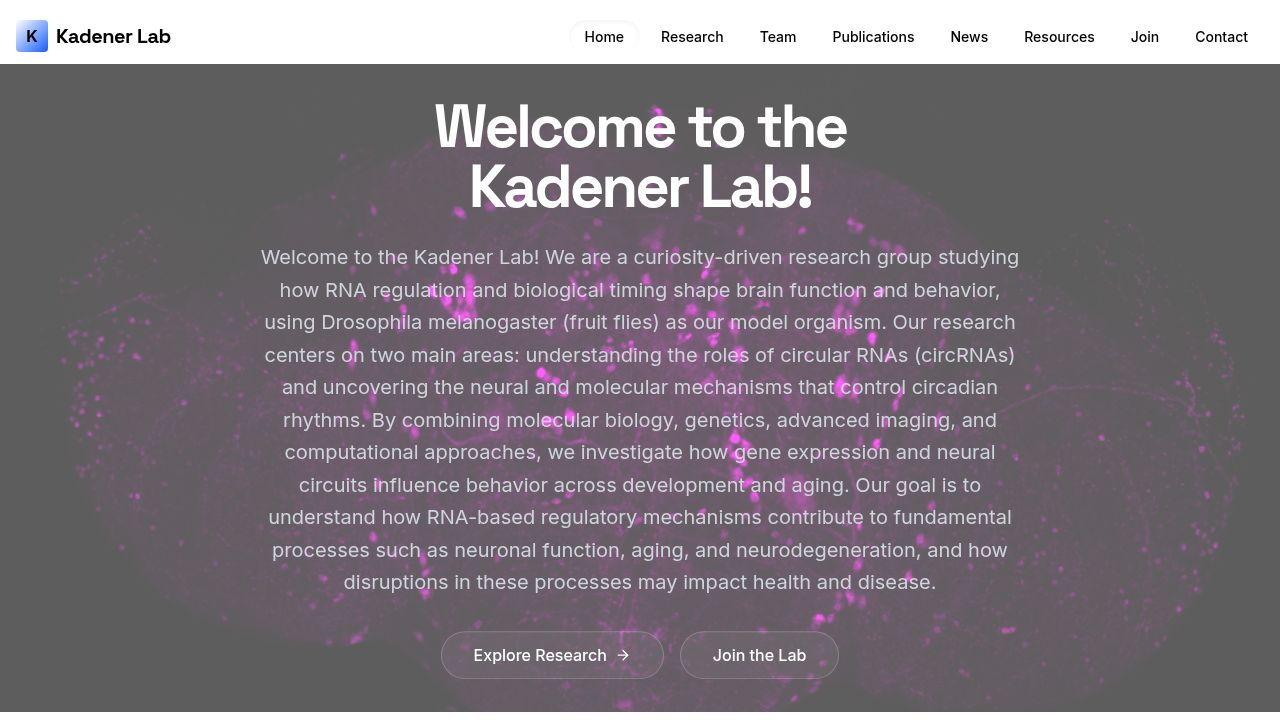
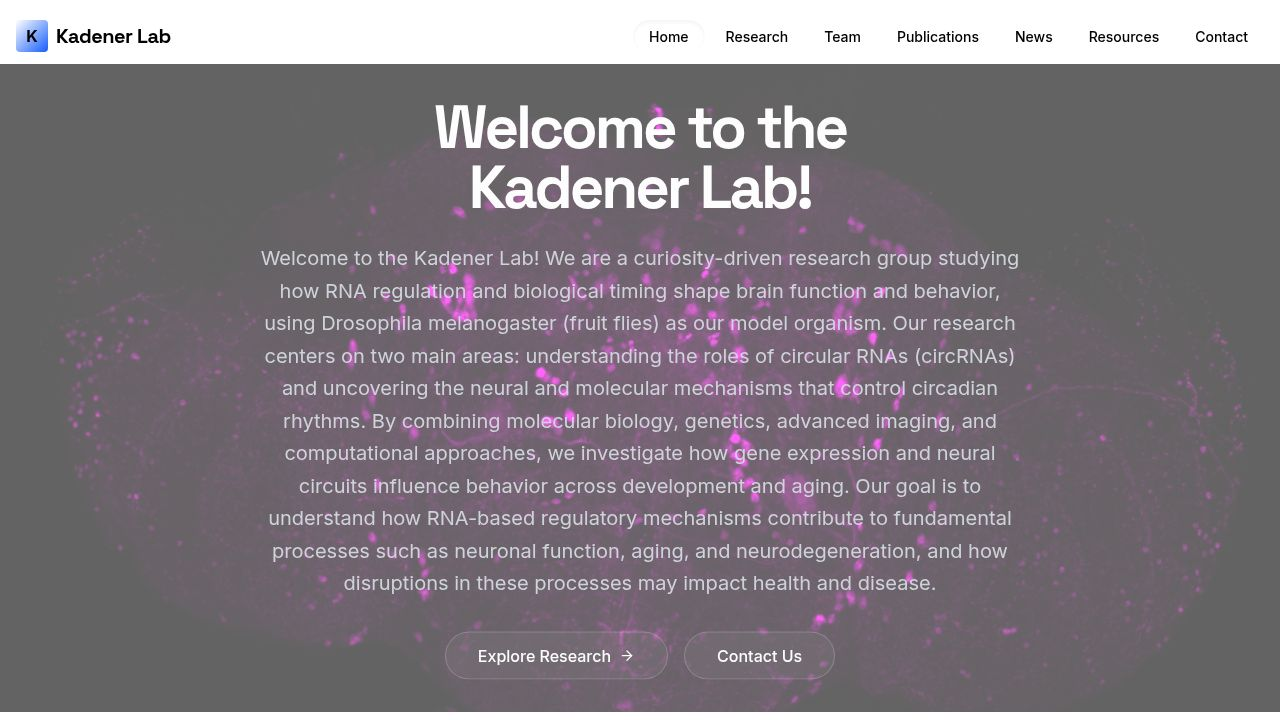
Improve website navigation and update resource display
Update various UI components and elements, including buttons, links, and the resources section, to enhance user experience and visual presentation.

Replit-Commit-Author: Agent
Replit-Commit-Session-Id: aa8516d6-bc6a-47e1-9bfe-f3ac1540b29a
Replit-Commit-Checkpoint-Type: full_checkpoint
Replit-Commit-Event-Id: 4927a3f0-e3d8-407a-9232-66eed52f22fd
Replit-Commit-Screenshot-Url: https://storage.googleapis.com/screenshot-production-us-central1/0a6790c6-6e9d-4fe3-8ca5-9559bf0cc256/aa8516d6-bc6a-47e1-9bfe-f3ac1540b29a/432rAIj
Replit-Helium-Checkpoint-Created: true

diff --git a/client/src/pages/Resources.tsx b/client/src/pages/Resources.tsx
@@ -1,106 +1,73 @@
 import { PageHeader } from "@/components/ui/PageHeader";
 import { resources } from "@/data/content";
-import { Button } from "@/components/ui/custom-button";
-import { ExternalLink, Lock, Layers } from "lucide-react";
+import { ExternalLink, Layers } from "lucide-react";
 import { motion } from "framer-motion";
 
 export default function Resources() {
   return (
     <div>
-      <PageHeader 
-        title="Resources" 
+      <PageHeader
+        title="Resources"
         description="Tools, datasets, and protocols developed by the Kadener Lab for the scientific community."
       />
 
       <div className="container mx-auto px-4 pb-20">
-        <div className="max-w-7xl mx-auto">
-          
-          <motion.div 
-            initial={{ opacity: 0, y: 20 }}
-            animate={{ opacity: 1, y: 0 }}
-            className="grid md:grid-cols-2 lg:grid-cols-3 gap-8"
-          >
-            {resources.map((resource, index) => (
-              <motion.div
-                key={resource.id}
-                initial={{ opacity: 0, y: 20 }}
-                animate={{ opacity: 1, y: 0 }}
-                transition={{ delay: index * 0.1 }}
-                className={`glass-card rounded-xl overflow-hidden flex flex-col h-full border-t-0 transition-all hover:shadow-xl hover:shadow-primary/5 ${
-                  resource.featured 
-                    ? "ring-1 ring-primary/50" 
-                    : "border-white/10 hover:border-primary/30"
-                }`}
-              >
-                {/* Image Area */}
-                <div className="h-48 w-full bg-black/50 overflow-hidden relative group">
-                  {resource.image ? (
-                    <img 
-                      src={resource.image} 
-                      alt={resource.title} 
-                      className="w-full h-full object-cover transition-transform duration-700 group-hover:scale-105 opacity-80 group-hover:opacity-100"
-                    />
-                  ) : (
-                    <div className="w-full h-full bg-primary/10 flex items-center justify-center">
-                      <span className="text-primary/40 font-mono text-sm">No Preview</span>
-                    </div>
-                  )}
-                  <div className="absolute inset-0 bg-gradient-to-t from-black/80 to-transparent opacity-60" />
-                  
-                  {/* Category Badge */}
-                  <div className="absolute top-3 left-3 bg-black/60 backdrop-blur-md border border-white/10 text-white text-xs font-medium px-2 py-1 rounded flex items-center gap-1.5">
-                    <Layers className="w-3 h-3 text-primary" />
-                    {resource.category}
-                  </div>
+        <div className="max-w-7xl mx-auto space-y-10">
+          {resources.sections.map((section, sectionIndex) => (
+            <section key={section.title} data-testid={`section-resources-${sectionIndex}`}>
+              <div className="flex items-end justify-between gap-6 mb-6">
+                <h2 className="text-2xl md:text-3xl font-display font-bold" data-testid={`heading-resources-${sectionIndex}`}>
+                  {section.title}
+                </h2>
+              </div>
 
-                  {resource.featured && (
-                    <div className="absolute top-3 right-3 bg-primary text-primary-foreground text-xs font-bold px-2 py-1 rounded shadow-lg">
-                      Featured
-                    </div>
-                  )}
-                </div>
+              <div className="grid md:grid-cols-2 lg:grid-cols-3 gap-6" data-testid={`grid-resources-${sectionIndex}`}>
+                {section.items.map((item, itemIndex) => (
+                  <motion.a
+                    key={`${section.title}-${item.title}`}
+                    href={item.url}
+                    target={item.url === "#" ? undefined : "_blank"}
+                    rel={item.url === "#" ? undefined : "noreferrer"}
+                    className={`glass-card p-6 rounded-2xl border border-white/10 hover:border-primary/30 transition-colors group block ${
+                      item.url === "#" ? "pointer-events-none opacity-70" : "" 
+                    }`}
+                    initial={{ opacity: 0, y: 12 }}
+                    whileInView={{ opacity: 1, y: 0 }}
+                    viewport={{ once: true }}
+                    transition={{ delay: (sectionIndex * 0.05) + (itemIndex * 0.03) }}
+                    data-testid={`card-resource-${sectionIndex}-${itemIndex}`}
+                  >
+                    <div className="flex items-start justify-between gap-4">
+                      <div className="min-w-0">
+                        <div className="inline-flex items-center gap-2 text-xs font-medium text-primary/90 bg-primary/10 border border-primary/20 px-2.5 py-1 rounded-full mb-3" data-testid={`badge-resource-${sectionIndex}-${itemIndex}`}>
+                          <Layers className="w-3.5 h-3.5" />
+                          {section.title}
+                        </div>
+                        <h3 className="text-lg font-bold leading-snug mb-2 group-hover:text-primary transition-colors" data-testid={`text-resource-title-${sectionIndex}-${itemIndex}`}>
+                          {item.title}
+                        </h3>
+                        <p className="text-sm text-muted-foreground leading-relaxed" data-testid={`text-resource-description-${sectionIndex}-${itemIndex}`}>
+                          {item.description}
+                        </p>
+                      </div>
 
-                {/* Content Area */}
-                <div className="p-6 flex flex-col flex-grow">
-                  <div className="flex-grow space-y-3 mb-6">
-                    <h3 className="text-xl font-bold leading-tight line-clamp-2">{resource.title}</h3>
-                    <p className="text-muted-foreground text-sm leading-relaxed line-clamp-4">
-                      {resource.description}
-                    </p>
-                  </div>
-                  
-                  <div className="mt-auto pt-4 border-t border-white/5">
-                    {resource.comingSoon ? (
-                      <Button 
-                        variant="ghost" 
-                        disabled 
-                        className="w-full justify-center opacity-70 cursor-not-allowed gap-2 bg-white/5 hover:bg-white/5"
-                      >
-                        <Lock className="w-4 h-4" />
-                        Coming Soon
-                      </Button>
-                    ) : (
-                      <a 
-                        href={resource.link} 
-                        target="_blank" 
-                        rel="noreferrer"
-                        className="block"
-                      >
-                        <Button 
-                          variant={resource.featured ? "default" : "secondary"} 
-                          className="w-full justify-center gap-2"
-                        >
-                          {resource.linkText || "View Resource"}
+                      {item.url !== "#" && (
+                        <div className="shrink-0 w-10 h-10 rounded-xl bg-white/5 border border-white/10 flex items-center justify-center text-muted-foreground group-hover:text-primary group-hover:border-primary/30 transition-colors" data-testid={`icon-resource-external-${sectionIndex}-${itemIndex}`}>
                           <ExternalLink className="w-4 h-4" />
-                        </Button>
-                      </a>
-                    )}
-                  </div>
-                </div>
-              </motion.div>
-            ))}
-          </motion.div>
+                        </div>
+                      )}
+                    </div>
 
+                    {item.url === "#" && (
+                      <div className="mt-4 text-xs text-muted-foreground" data-testid={`status-resource-coming-soon-${sectionIndex}-${itemIndex}`}>
+                        Coming soon
+                      </div>
+                    )}
+                  </motion.a>
+                ))}
+              </div>
+            </section>
+          ))}
         </div>
       </div>
     </div>

diff --git a/client/src/pages/Home.tsx b/client/src/pages/Home.tsx
@@ -41,13 +41,15 @@ export default function Home() {
             </p>
             <div className="flex flex-col sm:flex-row gap-4 justify-center">
               <Link href="/research">
-                <Button variant="outline" size="lg" className="text-base h-12 px-8 backdrop-blur-sm bg-white/5 border-white/20 text-white hover:bg-white/10">
-                  Explore Research <ArrowRight className="ml-2 w-4 h-4" />
+                <Button asChild variant="outline" size="lg" className="text-base h-12 px-8 backdrop-blur-sm bg-white/5 border-white/20 text-white hover:bg-white/10">
+                  <a data-testid="button-hero-research">
+                    Explore Research <ArrowRight className="ml-2 w-4 h-4" />
+                  </a>
                 </Button>
               </Link>
               <Link href="/contact">
-                <Button variant="outline" size="lg" className="text-base h-12 px-8 backdrop-blur-sm bg-white/5 border-white/20 text-white hover:bg-white/10" data-testid="button-hero-contact">
-                  Contact Us
+                <Button asChild variant="outline" size="lg" className="text-base h-12 px-8 backdrop-blur-sm bg-white/5 border-white/20 text-white hover:bg-white/10">
+                  <a data-testid="button-hero-contact">Contact Us</a>
                 </Button>
               </Link>
             </div>
@@ -87,7 +89,10 @@ export default function Home() {
                 {theme.shortDescription}
               </p>
               <Link href={`/research#${theme.id}`}>
-                <a className="text-primary text-sm font-medium hover:underline inline-flex items-center">
+                <a
+                  className="text-primary text-sm font-medium hover:underline inline-flex items-center"
+                  data-testid={`link-research-area-learn-more-${theme.id}`}
+                >
                   Learn more <ArrowRight className="ml-1 w-3 h-3" />
                 </a>
               </Link>
@@ -104,8 +109,10 @@ export default function Home() {
             <p className="text-muted-foreground">Recent highlights from our work</p>
           </div>
           <Link href="/publications">
-            <Button variant="ghost" className="hidden sm:inline-flex">
-              View All <ArrowRight className="ml-2 w-4 h-4" />
+            <Button asChild variant="ghost" className="hidden sm:inline-flex">
+              <a data-testid="link-publications-view-all">
+                View All <ArrowRight className="ml-2 w-4 h-4" />
+              </a>
             </Button>
           </Link>
         </div>
@@ -132,8 +139,10 @@ export default function Home() {
         
         <div className="mt-8 text-center sm:hidden">
            <Link href="/publications">
-            <Button variant="ghost">
-              View All Publications <ArrowRight className="ml-2 w-4 h-4" />
+            <Button asChild variant="ghost">
+              <a data-testid="link-publications-view-all-bottom">
+                View All Publications <ArrowRight className="ml-2 w-4 h-4" />
+              </a>
             </Button>
           </Link>
         </div>

diff --git a/client/src/pages/ResearchDetail.tsx b/client/src/pages/ResearchDetail.tsx
@@ -34,7 +34,9 @@ export default function ResearchDetail() {
       <div className="pt-32 pb-20 container mx-auto px-4 text-center">
         <h1 className="text-4xl font-bold mb-6">Topic Not Found</h1>
         <Link href="/research">
-          <Button>Return to Research</Button>
+          <Button asChild>
+            <a data-testid="link-return-research">Return to Research</a>
+          </Button>
         </Link>
       </div>
     );
@@ -54,8 +56,10 @@ export default function ResearchDetail() {
       <div className="container mx-auto px-4 pb-20">
         <div className="mb-8">
           <Link href="/research">
-            <Button variant="ghost" className="pl-0 hover:pl-2 transition-all">
-              <ArrowLeft className="mr-2 w-4 h-4" /> Back to Research Overview
+            <Button asChild variant="ghost" className="pl-0 hover:pl-2 transition-all">
+              <a data-testid="link-back-research-overview">
+                <ArrowLeft className="mr-2 w-4 h-4" /> Back to Research Overview
+              </a>
             </Button>
           </Link>
         </div>
